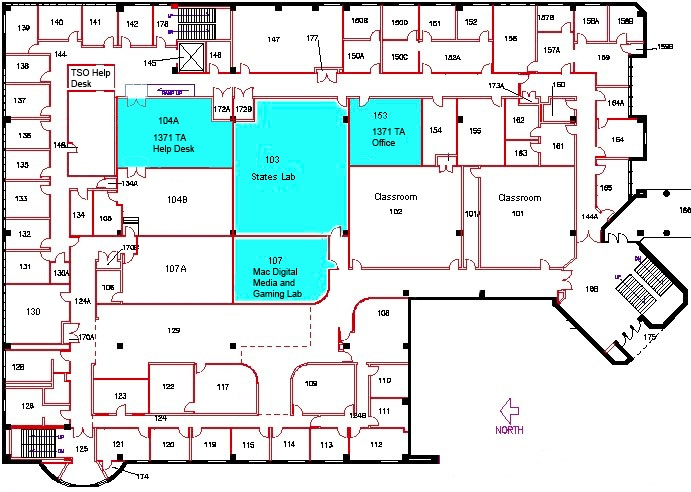
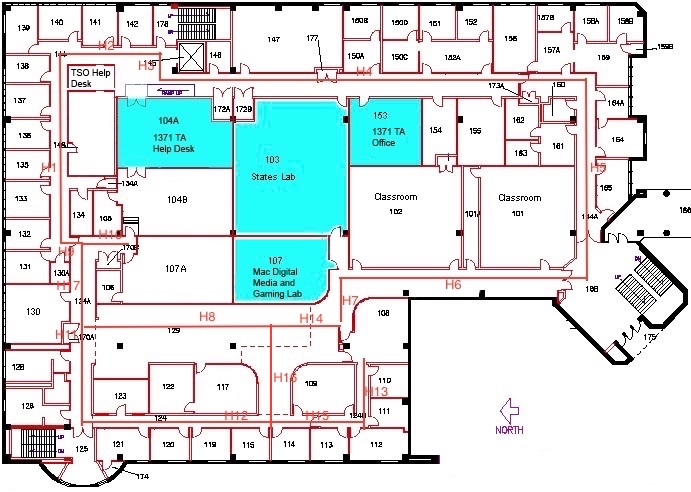
Updated getHallways to populate rooms data into hallway objects

diff --git a/GTMaps Android/app/src/main/java/edu/gatech/gtmaps/DBHelper.java b/GTMaps Android/app/src/main/java/edu/gatech/gtmaps/DBHelper.java
@@ -448,43 +448,43 @@ public class DBHelper extends SQLiteOpenHelper {
     /***************************  SQL Select Queries (DB "Getters") *******************************/
 
 //    /* If no parameters provided, mock out response - Temporary patch */
-//    public Map<String, Building> mockAllBuildings(){
+//    public List<Building> mockAllBuildings(){
 //        this.insertBuilding("building_0","College of Computing", "coc.jpg");
 //        this.insertBuilding("building_1","Klaus Advanced Computing Building","klaus.jpg");
 //        this.insertBuilding("building_2","Student Center", "student_center.jpg");
 //
-//        Map<String, Building> buildings = getAllBuildings();
+//        List<Building> buildings = getAllBuildings();
 //
 //        return buildings;
 //    }
 //
 //    /* run this after mocking buildingss */
-//    public Map<String, Hallway> mockHallwaysPerFloor(){
+//    public List<Hallway> mockHallwaysPerFloor(){
 //        this.insertHallway("hallway_0","entrance1","building_0","floor_0");
 //        this.insertHallway("hallway_1","hallway1","building_0","floor_0");
 //        this.insertHallway("hallway_2","entrance2","building_0","floor_0");
 //
-//        Map<String, Hallway> hallways = getHallwaysPerFloor("building_0","floor_0");
+//        List<Hallway> hallways = getHallwaysPerFloor("building_0","floor_0");
 //        return hallways;
 //    }
 //
 //    /* If no parameters provided, mock out response - Temporary patch */
 //    /* run this after mocking buildings */
-//    public Map<String, Room> mockRoomsPerFloor(){
+//    public List<Room> mockRoomsPerFloor(){
 //        this.insertRoom("room_0", "211", "building_0", "floor_2", "hallway_0", "SIDE_A", 0, 0, 1, 1);
 //        this.insertRoom("room_1", "212", "building_0", "floor_2", "hallway_0", "SIDE_B", 2, 4, 5, 6);
 //        this.insertRoom("room_2", "112", "building_0", "floor_1", "hallway_1", "SIDE_B", 2, 3, 5, 1);
 //        this.insertRoom("room_3", "112", "building_0", "floor_1", "hallway_1", "SIDE_B", 2, 3, 5, 2);
 //
-//        Map<String, Room> rooms = getRoomsPerFloor("building_0","floor_1");
+//        List<Room> rooms = getRoomsPerFloor("building_0","floor_1");
 //        /* should return room_2 and room_3 */
 //        return rooms;
 //    }
 
     /* returns a list of all buildings in the DB */
-    public Map<String, Building> getAllBuildings(){
+    public List<Building> getAllBuildings(){
         SQLiteDatabase db = this.getReadableDatabase();
-        Map<String, Building> building_map = new HashMap<>();
+        List<Building> building_list = new ArrayList<>();
 
         /* Select buildings query */
         String buildings_query = "SELECT * FROM " + BUILDINGS_TABLE_NAME;
@@ -498,18 +498,16 @@ public class DBHelper extends SQLiteOpenHelper {
         {
             Building building = new Building();
 
-            String id = cursor.getString(cursor.getColumnIndex(BUILDINGS_ID));
-            /* TODO: consider making a column enum to decrease chance of human error*/
-            building.setBuildingId(id);
+            building.setBuildingId(cursor.getString(cursor.getColumnIndex(BUILDINGS_ID)));
             building.setBuildingName(cursor.getString(cursor.getColumnIndex(BUILDINGS_NAME)));
             building.setBuildingImage(cursor.getString(cursor.getColumnIndex(BUILDINGS_URL)));
 
-            building_map.put(id, building);
+            building_list.add(building);
             cursor.moveToNext();
         }
 
         cursor.close();
-        return building_map;
+        return building_list;
     }
 
     /* Should return all hallways in a building which are marked as entrance */
@@ -527,15 +525,11 @@ public class DBHelper extends SQLiteOpenHelper {
         Cursor cursor =  db.rawQuery(entrances_query, null);
         cursor.moveToFirst();
 
-        //Cursor c = db.rawQuery("Select count()* from " + ROOMS_TABLE_NAME, null);
-        //c.moveToFirst();
-
         /* Map columns to POJO object */
         while (!cursor.isAfterLast())
         {
             Hallway entrance = new Hallway();
 
-            /* TODO: consider making a column enum to decrease chance of human error*/
             entrance.setBuildingId(cursor.getString(0));
             entrance.setFloorId(cursor.getString(1));
             entrance.setHallwayId(cursor.getString(2));
@@ -552,7 +546,12 @@ public class DBHelper extends SQLiteOpenHelper {
     public List<Junction> getJunctionsPerBuilding(String building_id) {
         ArrayList<Junction> junction_list = new ArrayList<>();
         SQLiteDatabase db = this.getReadableDatabase();
-        Map<String, Hallway> hallways = getHallwaysPerBuilding(building_id);
+        List<Hallway> hallways = getHallwaysPerBuilding(building_id);
+
+        Map<String, Hallway> idToHallways = new HashMap<>();
+        for (Hallway h : hallways) {
+            idToHallways.put(h.getId(), h);
+        }
 
         String query = "SELECT *" +
                 " FROM " + JUNCTIONS_TABLE_NAME +
@@ -567,33 +566,17 @@ public class DBHelper extends SQLiteOpenHelper {
             Point point = new Point(parseFloat(cursor.getString(cursor.getColumnIndex(JUNCTIONS_COORDINATE_X))),
                     parseFloat(cursor.getString(cursor.getColumnIndex(JUNCTIONS_COORDINATE_Y))));
             List<Hallway> members = new ArrayList<>(2);
-            members.add(hallways.get(h_uid1));
-            members.add(hallways.get(h_uid2));
+
+            Hallway hallway1 = idToHallways.get(h_uid1);
+            Hallway hallway2 = idToHallways.get(h_uid2);
+            members.add(hallway1);
+            members.add(hallway2);
 
             Junction junction = new Junction(members, point);
             junction_list.add(junction);
+            hallway1.addJunction(junction);
+            hallway2.addJunction(junction);
             cursor.moveToNext();
-//            Room room = new Room();
-//
-//            /* TODO: consider making a column enum to decrease chance of human error*/
-//            room.setBuildingId(cursor.getString(0));
-//            room.setFloorId(cursor.getString(1));
-//            room.setRoomId(cursor.getString(2));
-//            room.setRoomName(cursor.getString(3));
-//            room.setHallwayId(cursor.getString(4));
-//            room.setHallwaySide((HallwaySide.valueOf(cursor.getString(5))));
-//
-//            Float center_x = parseFloat(cursor.getString(6));
-//            Float center_y = parseFloat(cursor.getString(7));
-//            Point center = new Point(center_x,center_y);
-//            room.setCenter(center);
-//
-//            Float door_x = parseFloat(cursor.getString(8));
-//            Float door_y = parseFloat(cursor.getString(9));
-//            Point door = new Point(door_x,door_y);
-//            room.setDoor(door);
-//
-//            room_list.add(room);
         }
 
         cursor.close();
@@ -601,9 +584,9 @@ public class DBHelper extends SQLiteOpenHelper {
     }
 
     /* Returns all the rooms on a particular building's floor */
-    public Map<String, Room> getRoomsPerFloor(String building_id, String floor_id)
+    public List<Room> getRoomsPerFloor(String building_id, String floor_id)
     {
-        Map<String, Room> room_map = new HashMap<>();
+        List<Room> room_list = new ArrayList<>();
         String room_query = "";
 
         SQLiteDatabase db = this.getReadableDatabase();
@@ -627,9 +610,7 @@ public class DBHelper extends SQLiteOpenHelper {
         {
             Room room = new Room();
 
-            String id = cursor.getString(cursor.getColumnIndex(ROOMS_ROOM_ID));
-            /* TODO: consider making a column enum to decrease chance of human error*/
-            room.setRoomId(id);
+            room.setRoomId(cursor.getString(cursor.getColumnIndex(ROOMS_ROOM_ID)));
             room.setBuildingId(cursor.getString(cursor.getColumnIndex(ROOMS_BUILDING_ID)));
             room.setFloorId(cursor.getString(cursor.getColumnIndex(ROOMS_FLOOR_ID)));
             room.setRoomName(cursor.getString(cursor.getColumnIndex(ROOMS_ROOM_NAME)));
@@ -646,17 +627,16 @@ public class DBHelper extends SQLiteOpenHelper {
             Point door = new Point(door_x,door_y);
             room.setDoor(door);
 
-            room_map.put(id, room);
+            room_list.add(room);
             cursor.moveToNext();
         }
 
         cursor.close();
-        return room_map;
+        return room_list;
     }
 
-    public Map<String, Hallway> getHallwaysPerFloor(String building_id, String floor_id) {
-//        Map<String, Room> room_map = getRoomsPerFloor(building_id, floor_id);
-        Map<String, Hallway> hallway_map = new HashMap<>();
+    public List<Hallway> getHallwaysPerFloor(String building_id, String floor_id) {
+        List<Hallway> hallway_list = new ArrayList<>();
         String hallway_query = "";
 
         SQLiteDatabase db = this.getReadableDatabase();
@@ -675,11 +655,26 @@ public class DBHelper extends SQLiteOpenHelper {
         Cursor cursor = db.rawQuery(hallway_query, null);
         cursor.moveToFirst();
 
+        Map<String, List<Room>> hallwayNSideToRoom = new HashMap<>();
+        List<Room> rooms = getRoomsPerBuilding(building_id);
+        for (Room room : rooms) {
+            String key = room.getHallwayId() + room.getHallwaySide();
+            List<Room> roomsOnSide;
+            if (hallwayNSideToRoom.containsKey(key)) {
+                roomsOnSide = hallwayNSideToRoom.get(key);
+            } else {
+                roomsOnSide = new ArrayList<>();
+            }
+            roomsOnSide.add(room);
+
+            hallwayNSideToRoom.put(key, roomsOnSide);
+        }
+
         /* Map columns to POJO object */
         while (!cursor.isAfterLast()) {
             Hallway hallway = new Hallway();
-            String id = cursor.getString(cursor.getColumnIndex(HALLWAYS_HALLWAY_ID));
-            hallway.setHallwayId(id);
+
+            hallway.setHallwayId(cursor.getString(cursor.getColumnIndex(HALLWAYS_HALLWAY_ID)));
             hallway.setBuildingId(cursor.getString(cursor.getColumnIndex(HALLWAYS_BUILDING_ID)));
             hallway.setFloorId(cursor.getString(cursor.getColumnIndex(HALLWAYS_FLOOR_ID)));
             hallway.setHallwayName(cursor.getString(cursor.getColumnIndex(HALLWAYS_HALLWAY_NAME)));
@@ -688,30 +683,24 @@ public class DBHelper extends SQLiteOpenHelper {
             hallway.setEnd2(new Point(parseFloat(cursor.getString(cursor.getColumnIndex(HALLWAYS_END2_X))),
                     parseFloat(cursor.getString(cursor.getColumnIndex(HALLWAYS_END2_Y)))));
 
-        /* TODO: consider making a column enum to decrease chance of human error*/
+            hallway.setRoomsA(hallwayNSideToRoom.get(hallway.getId()+HallwaySide.SIDE_A));
+            hallway.setRoomsB(hallwayNSideToRoom.get(hallway.getId()+HallwaySide.SIDE_B));
 
-            /* TODO: implement */
-//            hallway.setRoomsA();
-//            hallway.setRoomsB();
-
-            //hallway.setLength();
-            //hallway.setWidth();
-
-            hallway_map.put(id, hallway);
+            hallway_list.add(hallway);
             cursor.moveToNext();
         }
 
         cursor.close();
 
-        return hallway_map;
+        return hallway_list;
     }
 
     /* Returns all the rooms in a particular building */
-    public Map<String, Room> getRoomsPerBuilding(String building_id) {
+    public List<Room> getRoomsPerBuilding(String building_id) {
         return getRoomsPerFloor(building_id, null);
     }
 
-    public Map<String, Hallway> getHallwaysPerBuilding(String building_id) {
+    public List<Hallway> getHallwaysPerBuilding(String building_id) {
         return getHallwaysPerFloor(building_id, null);
     }
 
@@ -733,7 +722,6 @@ public class DBHelper extends SQLiteOpenHelper {
 
         cursor.close();
         return urls;
-
     }
 
     public int getBuildingUrl(String building_id) {

diff --git a/GTMaps Android/app/src/test/java/edu/gatech/gtmaps/DBHelperTest.java b/GTMaps Android/app/src/test/java/edu/gatech/gtmaps/DBHelperTest.java
@@ -8,6 +8,7 @@ import org.robolectric.RuntimeEnvironment;
 import org.robolectric.Shadows;
 import org.robolectric.shadows.ShadowApplication;
 import java.util.ArrayList;
+import java.util.List;
 import java.util.Map;
 
 import edu.gatech.gtmaps.models.BuildingSpace;
@@ -42,10 +43,10 @@ public class DBHelperTest {
         assertTrue(dbHelper.insertRoom("room_2", "112", "building_0", "floor_1", "hallway_1", "SIDE_B", 2, 3, 5, 1));
         assertTrue(dbHelper.insertRoom("room_3", "112", "building_0", "floor_1", "hallway_1", "SIDE_B", 2, 3, 5, 2)); // Same room different door
 
-        Map<String, Room> actualRoomsOnFloor1 = dbHelper.getRoomsPerFloor("building_0", "floor_2");
+        List<Room> actualRoomsOnFloor1 = dbHelper.getRoomsPerFloor("building_0", "floor_2");
 
         assertEquals(2, actualRoomsOnFloor1.size());
-        for (Room r : actualRoomsOnFloor1.values()) {
+        for (Room r : actualRoomsOnFloor1) {
             if (r.getRoomId().equals("room_0")) {
                 assertRoomsEqual(
                         new Room("building_0", "floor_2", "hallway_0", BuildingSpace.HallwaySide.SIDE_A, "room_0", "211", new Point(0, 0), new Point(1, 1)), r);
@@ -58,9 +59,9 @@ public class DBHelperTest {
             }
         }
 
-        Map<String, Room> actualRoomsOnFloor2 = dbHelper.getRoomsPerFloor("building_0", "floor_1");
+        List<Room> actualRoomsOnFloor2 = dbHelper.getRoomsPerFloor("building_0", "floor_1");
         assertEquals(2, actualRoomsOnFloor2.size());
-        for (Room r : actualRoomsOnFloor2.values()) {
+        for (Room r : actualRoomsOnFloor2) {
             if (r.getRoomId().equals("room_2")) {
                 assertRoomsEqual(
                         new Room("building_0", "floor_1", "hallway_1", BuildingSpace.HallwaySide.SIDE_B, "room_2", "112", new Point(2, 3), new Point(5, 1)), r
@@ -88,10 +89,10 @@ public class DBHelperTest {
         assertTrue(dbHelper.insertRoom("room_2", "112", "building_0", "floor_1", "hallway_1", "SIDE_B", 2, 3, 5, 1));
         assertTrue(dbHelper.insertRoom("room_3", "112", "building_0", "floor_1", "hallway_1", "SIDE_B", 2, 3, 5, 2)); // Same room different door
 
-        Map<String, Room> actual = dbHelper.getRoomsPerBuilding("building_0");
+        List<Room> actual = dbHelper.getRoomsPerBuilding("building_0");
 
         assertEquals(4, actual.size());
-        for (Room r : actual.values()) {
+        for (Room r : actual) {
             if (r.getRoomId().equals("room_0")) {
                 assertRoomsEqual(
                         new Room("building_0", "floor_2", "hallway_0", BuildingSpace.HallwaySide.SIDE_A, "room_0", "211", new Point(0, 0), new Point(1, 1)), r);

diff --git a/GTMaps Android/app/src/main/java/edu/gatech/gtmaps/models/Hallway.java b/GTMaps Android/app/src/main/java/edu/gatech/gtmaps/models/Hallway.java
@@ -43,7 +43,7 @@ public class Hallway implements BuildingSpace{
         this.roomsB = null;
         this.length = 0;
         this.width = 0;
-        this.junctions = null;
+        this.junctions = new LinkedList<>();
         this.end1 = null;
         this.end2 = null;
     }
@@ -87,24 +87,12 @@ public class Hallway implements BuildingSpace{
         this.width = width;
     }
 
-    public void setRoomsA(){
-        //sql call to get rooms A and assign it
+    public void setRoomsA(List<Room> rooms){
+        this.roomsA = rooms;
     }
 
-    public void setRoomsB(){
-        //sql call to get rooms B and assign it
-    }
-
-    public void setJunctions(){
-        //sql call to set junctions
-    }
-
-    public void end1(){
-        //sql call to get end1
-    }
-
-    public void end2(){
-        //sql call to get end2
+    public void setRoomsB(List<Room> rooms){
+        this.roomsB = rooms;
     }
 
     /* getters */
@@ -114,7 +102,6 @@ public class Hallway implements BuildingSpace{
 
     public String getId() { return id;}
 
-    //TODO: add sql queries to initially poll for RoomsA and RoomsB from DB
     public List<Room> getRoomsA() { return roomsA; }
 
     public List<Room> getRoomsB() { return roomsB; }

diff --git a/GTMaps Android/app/src/main/java/edu/gatech/gtmaps/models/Building.java b/GTMaps Android/app/src/main/java/edu/gatech/gtmaps/models/Building.java
@@ -51,7 +51,7 @@ public class Building {
         return dbHelper.getBuildingEntrances(building_id);
     }
 
-    public Map<String, Room> getRooms() {
+    public List<Room> getRooms() {
         return dbHelper.getRoomsPerBuilding(building_id);
     }
 
